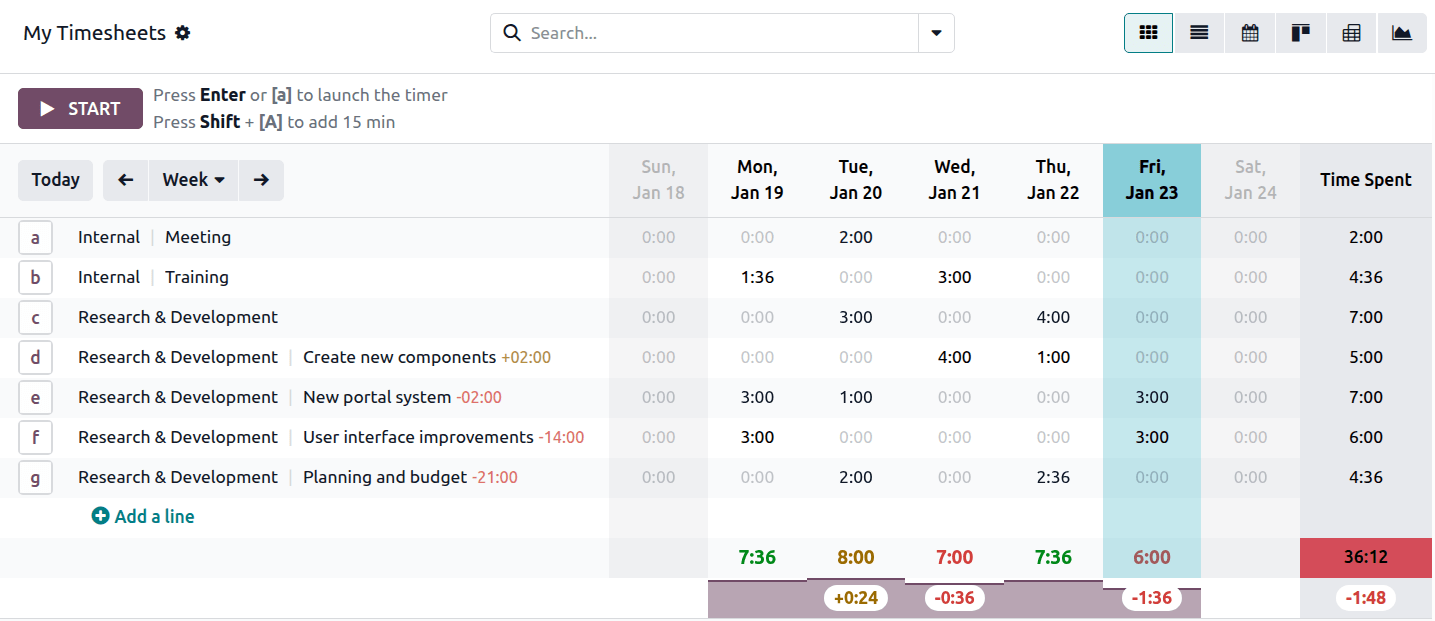
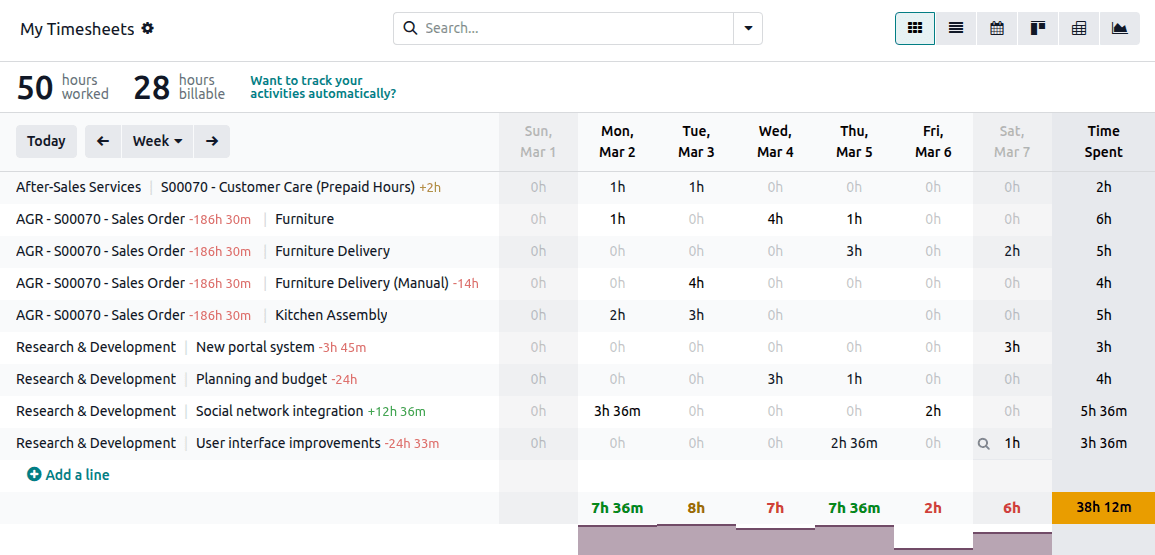
[IMP] Timesheets: replace old timer with new timer
task-6034678

X-original-commit: 9b1ffa72a7c0372c954859589227bc7374303a51

diff --git a/content/applications/services/timesheets.rst b/content/applications/services/timesheets.rst
@@ -119,24 +119,46 @@ Odoo offers multiple ways to log timesheets:
 Using the timer
 ---------------
 
-To record the time spent on a project in real time, follow these steps:
+The timer allows users to easily log timesheets. It starts automatically when the user checks in.
+When the user is done working on a project or task, they can create a timesheet from anywhere in
+Odoo by stopping the timer and selecting the appropriate project.
 
-#. Go to the Timesheets app.
-#. Click :guilabel:`Start` to launch the timer.
-#. By default, the project most frequently used in the last five timesheet entries is automatically
-   selected. To log time for another project, type or select it in the :guilabel:`Project` field.
-#. Optionally, select a :guilabel:`Task` in the project and :guilabel:`Describe your activity`.
-#. Click :guilabel:`Stop` to stop the timer. The time spent is automatically added to the chosen
-   timesheet.
+To log timesheets using the timer, follow these steps:
 
-.. tip::
+In the top menu, click the :icon:`fa-play-circle` (:guilabel:`play circle`) button.
 
-   - You can also press **Enter** to start and stop the timer.
-   - To edit an entry, click the relevant cell in the grid and modify the time.
+If you are using the Attendances app, first :ref:`check in <attendances/check-in>` by clicking the
+:icon:`fa-circle` :guilabel:`(red circle)` and then the :guilabel:`Check in` :icon:`fa-sign-in`
+button in the pop-up. After checking in, click the :icon:`fa-circle` :guilabel:`(green circle)`.
 
-Alternatively, locate the project you want to log time for in the grid and click or press the letter
-displayed next to it on the keyboard to start the timer. Click or press the letter again to stop it.
-To add time in 15-minute increments, press Shift + [letter].
+.. image:: timesheets/timesheets-timer-popup.png
+   :alt: Timesheets timer popup.
+
+In the pop-up:
+
+- Use the :guilabel:`Describe your activity...` field next to the :icon:`fa-comment`
+  (:guilabel:`comment`) icon to enter an optional description.
+- Use the :guilabel:`Project` field next to the :icon:`fa-tasks` (:guilabel:`tasks`) icon to select
+  a project and, optionally, a :guilabel:`Task` in the field below.
+- If the selected project is billable, you can enable the :guilabel:`Billable` setting so the
+  timesheet can be used to invoice the client.
+- If necessary, edit the time next to the :icon:`fa-clock-o` (:guilabel:`clock`) icon.
+- Finally, click :guilabel:`Create`.
+
+.. note::
+   The running timer shows the time elapsed since the user checked in or since the timer was last
+   reset (for example, when a previous timesheet was created).
+
+When a timesheet is created, the timer automatically resets and is ready to create a new timesheet.
+
+To reset the timer, click :guilabel:`Reset` in the pop-up.
+
+To edit a timesheet entry created earlier on the same day, select it in the lower half of the popup.
+Make the desired changes and click :guilabel:`Save`, or :guilabel:`Delete` to permanently remove it.
+
+When you're done for the day, click :guilabel:`Check out` :icon:`fa-sign-out` in the pop-up to stop
+the timer. The timer will resume when you check in again. If you do not check out, the timer will
+automatically reset at midnight.
 
  .. _timesheets/timesheets/log-manually:
 
